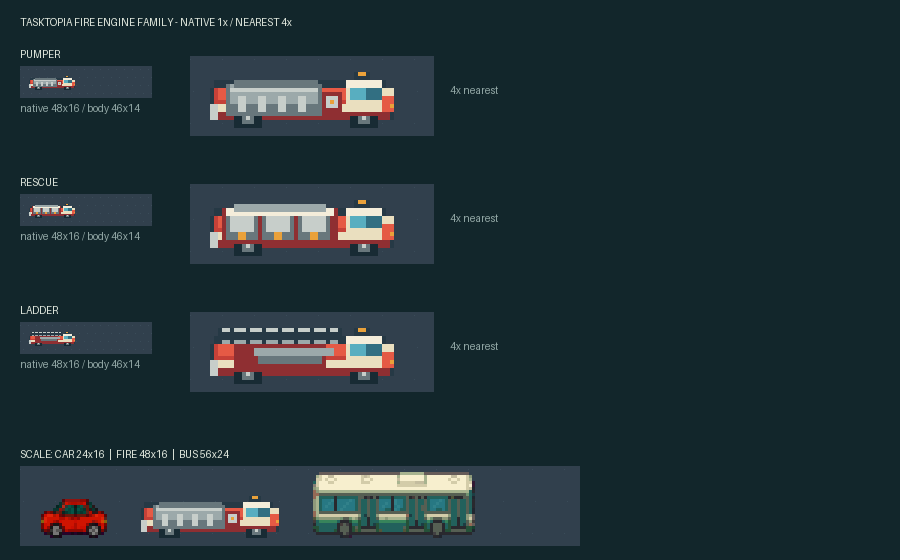
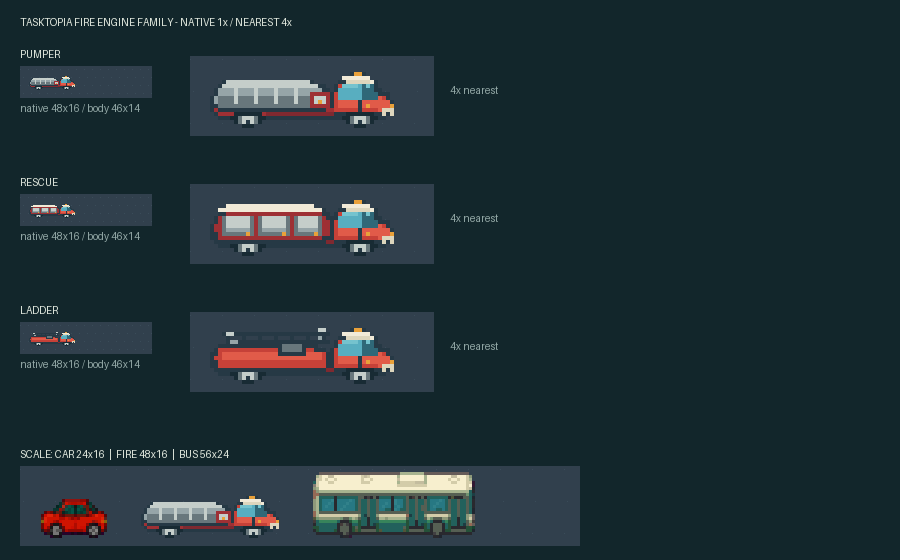
fix: align fire engines with vehicle projection

diff --git a/tests/pixel-city-assets.test.ts b/tests/pixel-city-assets.test.ts
@@ -292,7 +292,7 @@ describe("Pixel City active asset contract", () => {
         occupiedSize: [46, 14],
         footprintCells: [6, 2],
         artSource: "HAND_AUTHORED_NATIVE",
-        sourceSheet: "hand-authored/ambient/fire-engines-v4.png",
+        sourceSheet: "hand-authored/ambient/fire-engines-v5.png",
       });
     }
     for (const prefix of ["incident-flame", "incident-smoke"]) {

diff --git a/scripts/draw-native-fire-engines.py b/scripts/draw-native-fire-engines.py
@@ -6,19 +6,21 @@ from pathlib import Path
 from PIL import Image, ImageDraw
 
 
-OUT = Path("assets/pixel-city-pack/reference/hand-authored/ambient/fire-engines-v4.png")
+OUT = Path("assets/pixel-city-pack/reference/hand-authored/ambient/fire-engines-v5.png")
 TRANSPARENT = (0, 0, 0, 0)
 OUTLINE = "#263945"
 TIRE = "#182b34"
-RED_DARK = "#8f2f32"
+RED_SHADOW = "#7f2930"
+RED_DARK = "#9e3034"
 RED = "#c64138"
-RED_LIGHT = "#e55a45"
-CREAM = "#eadfbf"
-CREAM_LIGHT = "#f4edda"
+RED_LIGHT = "#e15b49"
+CREAM = "#ddd6bd"
+CREAM_LIGHT = "#f1ead7"
 GLASS = "#58aec0"
-GLASS_DARK = "#326f82"
-METAL = "#9ca9aa"
-METAL_LIGHT = "#c7ceca"
+GLASS_LIGHT = "#75c3ce"
+GLASS_DARK = "#2f6878"
+METAL = "#96a5a8"
+METAL_LIGHT = "#c5ceca"
 METAL_DARK = "#68777c"
 AMBER = "#e9a13a"
 
@@ -27,71 +29,136 @@ def rect(draw: ImageDraw.ImageDraw, box: tuple[int, int, int, int], color: str) 
     draw.rectangle(box, fill=color)
 
 
-def common_engine(draw: ImageDraw.ImageDraw, offset: int) -> None:
-    # Two current 24×16 passenger-car lengths, but lower and shorter than the
-    # 56×24 bus. Opaque bounds are exactly 46×14 inside the 48×16 canvas.
-    rect(draw, (offset + 2, 3, offset + 44, 4), OUTLINE)
-    rect(draw, (offset + 1, 5, offset + 46, 12), OUTLINE)
-    rect(draw, (offset + 2, 5, offset + 35, 11), RED)
-    rect(draw, (offset + 3, 5, offset + 34, 7), RED_LIGHT)
-    rect(draw, (offset + 2, 9, offset + 45, 10), CREAM)
-    rect(draw, (offset + 2, 11, offset + 45, 12), RED_DARK)
-    # The east-facing cab uses the same shallow roof, windscreen and near-side
-    # body planes as the current passenger-car family.
-    rect(draw, (offset + 35, 3, offset + 43, 4), CREAM_LIGHT)
-    rect(draw, (offset + 35, 5, offset + 46, 10), CREAM)
-    rect(draw, (offset + 36, 5, offset + 39, 7), GLASS)
-    rect(draw, (offset + 40, 5, offset + 43, 7), GLASS_DARK)
-    rect(draw, (offset + 44, 7, offset + 46, 10), RED_LIGHT)
-    draw.point((offset + 46, 9), fill=AMBER)
-    # Two explicit wheels share the sedan baseline and remain inside one lane.
-    for center in (10, 39):
-        rect(draw, (offset + center - 3, 12, offset + center + 3, 14), TIRE)
-        rect(draw, (offset + center - 1, 12, offset + center + 1, 13), METAL_DARK)
-        draw.point((offset + center, 12), fill=METAL_LIGHT)
-    # Roof beacon and rear bumper.
-    rect(draw, (offset + 37, 1, offset + 40, 2), OUTLINE)
-    rect(draw, (offset + 38, 1, offset + 39, 1), AMBER)
-    rect(draw, (offset + 1, 9, offset + 2, 12), METAL_LIGHT)
+def poly(draw: ImageDraw.ImageDraw, offset: int, points: list[tuple[int, int]], color: str) -> None:
+    draw.polygon([(offset + x, y) for x, y in points], fill=color)
+
+
+def draw_wheel(draw: ImageDraw.ImageDraw, offset: int, center: int) -> None:
+    # Four authored rows form a rounded tyre. The 3 px ground contact prevents
+    # the old square caster look while keeping one hard-pixel component.
+    poly(draw, offset, [
+        (center - 3, 12), (center + 3, 12),
+        (center + 4, 13), (center + 3, 14),
+        (center + 1, 15), (center - 1, 15),
+        (center - 3, 14), (center - 4, 13),
+    ], TIRE)
+    rect(draw, (offset + center - 2, 13, offset + center + 2, 14), METAL_DARK)
+    rect(draw, (offset + center - 1, 13, offset + center + 1, 14), METAL_LIGHT)
+    draw.point((offset + center, 14), fill=OUTLINE)
+
+
+def common_chassis_and_cab(draw: ImageDraw.ImageDraw, offset: int) -> None:
+    # Thin chassis and near-side body plane; only two rows span most of the
+    # vehicle, unlike the former rectangular block.
+    poly(draw, offset, [
+        (1, 9), (3, 8), (31, 8), (33, 9), (46, 9),
+        (46, 12), (44, 13), (42, 13), (41, 12),
+        (35, 12), (34, 13), (14, 13), (13, 12),
+        (7, 12), (6, 13), (3, 13), (1, 11),
+    ], OUTLINE)
+    poly(draw, offset, [
+        (2, 9), (31, 9), (33, 10), (45, 10),
+        (45, 11), (43, 12), (3, 12), (2, 11),
+    ], RED_DARK)
+    rect(draw, (offset + 3, 9, offset + 43, 9), CREAM)
+    rect(draw, (offset + 15, 12, offset + 33, 12), RED_SHADOW)
+
+    # East-facing cab: a stepped roof, two windows, sloped windscreen and hood
+    # expose the same shallow frontal-top camera as the passenger-car family.
+    poly(draw, offset, [
+        (31, 7), (32, 5), (34, 3), (40, 3), (42, 4),
+        (43, 6), (45, 7), (46, 9), (46, 11), (44, 12),
+        (32, 12), (31, 10),
+    ], OUTLINE)
+    poly(draw, offset, [
+        (32, 7), (33, 5), (35, 4), (39, 4), (41, 5),
+        (42, 7), (44, 8), (45, 9), (45, 11), (43, 11),
+        (32, 11),
+    ], RED)
+    # Roof/top plane and upper-left highlight.
+    poly(draw, offset, [(34, 3), (40, 3), (41, 4), (35, 4)], CREAM_LIGHT)
+    rect(draw, (offset + 35, 4, offset + 40, 4), CREAM)
+    # Near-side window and the independently sloped front windscreen.
+    poly(draw, offset, [(34, 5), (38, 5), (38, 8), (33, 8), (33, 6)], GLASS)
+    rect(draw, (offset + 34, 5, offset + 37, 5), GLASS_LIGHT)
+    poly(draw, offset, [(39, 5), (41, 5), (42, 7), (42, 8), (39, 8)], GLASS_DARK)
+    draw.point((offset + 40, 5), fill=GLASS_LIGHT)
+    rect(draw, (offset + 33, 9, offset + 42, 10), RED_LIGHT)
+    rect(draw, (offset + 38, 9, offset + 38, 11), OUTLINE)
+    draw.point((offset + 40, 10), fill=AMBER)
+    # Hood/front face taper rather than a vertical rectangular cab end.
+    poly(draw, offset, [(43, 8), (45, 9), (45, 11), (43, 11)], RED_LIGHT)
+    rect(draw, (offset + 44, 11, offset + 46, 12), CREAM)
+    draw.point((offset + 46, 10), fill=AMBER)
+    draw.point((offset + 45, 12), fill=OUTLINE)
+
+    # Low beacon belongs to the cab roof and establishes the 14 px envelope.
+    rect(draw, (offset + 36, 2, offset + 39, 2), OUTLINE)
+    rect(draw, (offset + 37, 2, offset + 38, 2), AMBER)
+    draw_wheel(draw, offset, 10)
+    draw_wheel(draw, offset, 38)
 
 
 def draw_pumper(draw: ImageDraw.ImageDraw, offset: int) -> None:
-    common_engine(draw, offset)
-    # Auto-pumper: wide ribbed water tank, side pump panel and roof hose tray.
-    rect(draw, (offset + 5, 4, offset + 28, 11), METAL_DARK)
-    rect(draw, (offset + 6, 4, offset + 27, 8), METAL)
-    rect(draw, (offset + 6, 5, offset + 27, 5), METAL_LIGHT)
-    for x in (8, 13, 18, 23):
-        rect(draw, (offset + x, 7, offset + x + 1, 10), METAL_LIGHT)
-    rect(draw, (offset + 29, 6, offset + 33, 10), RED_DARK)
-    rect(draw, (offset + 30, 7, offset + 32, 9), METAL_LIGHT)
-    draw.point((offset + 31, 8), fill=AMBER)
-    rect(draw, (offset + 7, 3, offset + 27, 4), METAL_DARK)
+    common_chassis_and_cab(draw, offset)
+    # Rounded tank: narrow top plane, curved end pixels, ribbed near side and a
+    # separate pump panel. It reads as volume, not as a warehouse rectangle.
+    poly(draw, offset, [
+        (1, 8), (2, 6), (4, 4), (26, 4), (29, 5),
+        (31, 7), (31, 10), (29, 11), (3, 11), (1, 10),
+    ], OUTLINE)
+    poly(draw, offset, [
+        (3, 6), (5, 5), (25, 5), (28, 6), (29, 7),
+        (29, 10), (3, 10), (2, 9),
+    ], METAL)
+    poly(draw, offset, [(5, 4), (25, 4), (27, 5), (4, 5)], METAL_LIGHT)
+    rect(draw, (offset + 3, 8, offset + 29, 10), METAL_DARK)
+    for x in (7, 12, 17, 22):
+        rect(draw, (offset + x, 6, offset + x, 9), METAL_LIGHT)
+    rect(draw, (offset + 26, 7, offset + 30, 10), RED_DARK)
+    rect(draw, (offset + 27, 8, offset + 29, 9), METAL_LIGHT)
+    draw.point((offset + 28, 9), fill=AMBER)
 
 
 def draw_rescue(draw: ImageDraw.ImageDraw, offset: int) -> None:
-    common_engine(draw, offset)
-    # Rescue unit: high enclosed equipment body with three unmistakable bays.
-    rect(draw, (offset + 4, 3, offset + 32, 11), RED_DARK)
-    rect(draw, (offset + 5, 3, offset + 31, 4), CREAM_LIGHT)
-    for left in (5, 14, 23):
-        rect(draw, (offset + left, 5, offset + left + 7, 10), METAL_DARK)
-        rect(draw, (offset + left + 1, 5, offset + left + 6, 8), METAL_LIGHT)
-        rect(draw, (offset + left + 3, 9, offset + left + 4, 10), AMBER)
-    rect(draw, (offset + 7, 2, offset + 29, 3), METAL)
+    common_chassis_and_cab(draw, offset)
+    # A chamfered high rescue body with a visible pale roof plane and three
+    # roll-up equipment bays. Corners step inward instead of forming a box.
+    poly(draw, offset, [
+        (1, 8), (2, 6), (5, 3), (26, 3), (29, 4),
+        (31, 6), (31, 11), (29, 12), (3, 12), (1, 10),
+    ], OUTLINE)
+    poly(draw, offset, [(5, 3), (26, 3), (28, 4), (3, 4)], CREAM_LIGHT)
+    poly(draw, offset, [
+        (3, 6), (5, 5), (28, 5), (30, 7), (30, 10),
+        (28, 11), (3, 11), (2, 9),
+    ], RED_DARK)
+    for left, width in ((4, 7), (13, 7), (22, 6)):
+        rect(draw, (offset + left, 6, offset + left + width, 10), METAL_DARK)
+        rect(draw, (offset + left + 1, 6, offset + left + width - 1, 8), METAL_LIGHT)
+        rect(draw, (offset + left + 1, 9, offset + left + width - 1, 9), METAL)
+        draw.point((offset + left + width - 1, 10), fill=AMBER)
 
 
 def draw_ladder(draw: ImageDraw.ImageDraw, offset: int) -> None:
-    common_engine(draw, offset)
-    # Ladder truck: open turntable and a long ladder reaching almost the cab.
-    rect(draw, (offset + 3, 1, offset + 33, 4), OUTLINE)
-    rect(draw, (offset + 4, 1, offset + 32, 1), METAL_LIGHT)
-    rect(draw, (offset + 4, 4, offset + 32, 4), METAL)
-    for x in range(6, 33, 4):
-        rect(draw, (offset + x, 1, offset + x, 4), OUTLINE)
-    rect(draw, (offset + 7, 5, offset + 29, 10), RED_DARK)
-    rect(draw, (offset + 12, 6, offset + 31, 7), METAL)
-    rect(draw, (offset + 13, 8, offset + 28, 9), METAL_DARK)
+    common_chassis_and_cab(draw, offset)
+    # Lower open bed and a slightly rising authored ladder. The turntable joins
+    # roof equipment to the chassis so the whole truck remains one silhouette.
+    poly(draw, offset, [
+        (1, 8), (3, 6), (27, 6), (31, 8), (31, 11),
+        (29, 12), (3, 12), (1, 10),
+    ], OUTLINE)
+    poly(draw, offset, [(3, 7), (26, 7), (29, 8), (29, 11), (3, 11), (2, 9)], RED)
+    rect(draw, (offset + 4, 8, offset + 28, 9), RED_LIGHT)
+    rect(draw, (offset + 18, 5, offset + 24, 8), OUTLINE)
+    rect(draw, (offset + 19, 5, offset + 23, 7), METAL_DARK)
+    # Ladder rails rise by one pixel toward the cab, matching the near-top view.
+    poly(draw, offset, [(4, 3), (29, 2), (30, 3), (5, 4)], OUTLINE)
+    poly(draw, offset, [(5, 3), (28, 2), (29, 2), (6, 3)], METAL_LIGHT)
+    poly(draw, offset, [(5, 5), (29, 4), (30, 5), (6, 6)], OUTLINE)
+    poly(draw, offset, [(6, 5), (28, 4), (29, 4), (7, 5)], METAL)
+    for x in range(8, 29, 4):
+        draw.line((offset + x, 3, offset + x + 1, 5), fill=OUTLINE)
 
 
 def main() -> None:

diff --git a/scripts/verify-vehicle-proportions.py b/scripts/verify-vehicle-proportions.py
@@ -49,6 +49,44 @@ def overlay(left: Image.Image, right: Image.Image) -> Image.Image:
     return result
 
 
+def opaque_runs(alpha: Image.Image, y: int) -> list[int]:
+    """Return contiguous opaque run widths for one silhouette row."""
+    widths: list[int] = []
+    start: int | None = None
+    for x in range(alpha.width + 1):
+        opaque = x < alpha.width and alpha.getpixel((x, y)) > 0
+        if opaque and start is None:
+            start = x
+        elif not opaque and start is not None:
+            widths.append(x - start)
+            start = None
+    return widths
+
+
+def assert_fire_engine_projection(key: str, image: Image.Image) -> None:
+    """Reject flat box trucks that do not share the passenger-car camera."""
+    alpha = image.getchannel("A")
+    bounds = alpha.getbbox()
+    assert bounds is not None
+    left, top, right, bottom = bounds
+    opaque_pixels = sum(value > 0 for value in alpha.getdata())
+    fill_ratio = opaque_pixels / ((right - left) * (bottom - top))
+
+    rows: list[tuple[int, int, int]] = []
+    for y in range(top, bottom):
+        xs = [x for x in range(left, right) if alpha.getpixel((x, y))]
+        rows.append((min(xs), max(xs), len(xs)))
+    row_widths = {width for _, _, width in rows}
+    front_edges = {row_right for _, row_right, _ in rows}
+    full_width_rows = sum(width == right - left for _, _, width in rows)
+
+    assert fill_ratio <= 0.755, f"{key}: boxy silhouette fill ratio {fill_ratio:.3f}"
+    assert len(row_widths) >= 6, f"{key}: flat silhouette has only {len(row_widths)} row widths"
+    assert len(front_edges) >= 5, f"{key}: cab/front lacks a stepped east-facing profile"
+    assert full_width_rows <= 3, f"{key}: {full_width_rows} full rectangular body rows"
+    assert opaque_runs(alpha, bottom - 1) == [3, 3], f"{key}: wheels lack rounded 3 px ground contacts"
+
+
 def main() -> None:
     parser = argparse.ArgumentParser()
     parser.add_argument("--proof", type=Path)
@@ -89,7 +127,8 @@ def main() -> None:
         assert set(image.getchannel("A").getdata()) <= {0, 255}, f"{key}: soft alpha"
         assert component_count(image) == 1, f"{key}: disconnected body"
         assert entry["footprintCells"] == [6, 2], f"{key}: footprint {entry['footprintCells']}"
-        assert entry.get("sourceSheet") == "hand-authored/ambient/fire-engines-v4.png", f"{key}: stale source"
+        assert entry.get("sourceSheet") == "hand-authored/ambient/fire-engines-v5.png", f"{key}: stale source"
+        assert_fire_engine_projection(key, image)
         fire_engines[key] = image
     for left_key, right_key in itertools.combinations(fire_engines, 2):
         left = fire_engines[left_key]

diff --git a/docs/WORLD-GENERATION.md b/docs/WORLD-GENERATION.md
@@ -148,7 +148,7 @@ PixiJS-приложение живёт всё время выбранной ст
 
 ### Инциденты задач
 
-Связанные дефекты и активные хотфиксы отображаются отдельным incident overlay над зданием. Плотность дыма зависит от общего числа активных дефектов, а не от прогресса родительской задачи: 1–2 дефекта дают один шлейф, 3–4 — два, 5 — три плотных шлейфа. С 6 активных дефектов появляется огонь. Пожарная машина использует canvas `48×16` и непрозрачный корпус `46×14`: это две легковые `24×16` по длине, но меньше автобуса `56×24`. Три source-силуэта отдельно изображают автоцистерну, спасательную машину и автолестницу. Объёмная вода начинается 3-px потоком у сопла и сужается до 2 px у фасада. Цикл каждой цели длится `1600 ms`: первые `320 ms` расчёт плавно переводит струю с предыдущего очага, затем удерживает её на текущем и последовательно обходит остальные очаги. Блики движутся по стабильной дуге, а ударные брызги меняют фазу в текущей точке контакта. Глобальный лимит оставляет одновременно не больше трёх полных пожарных расчётов, остальные инциденты сохраняют компактную крышную сигнализацию. Горящие здания всегда получают расчёт раньше зданий только с дымом; внутри одного уровня приоритет имеет более плотный дым. Активный `HOTFIX` остаётся немедленным аварийным случаем с огнём, дымом и тушением. После исправления последнего дефекта или завершения хотфикса overlay исчезает.
+Связанные дефекты и активные хотфиксы отображаются отдельным incident overlay над зданием. Плотность дыма зависит от общего числа активных дефектов, а не от прогресса родительской задачи: 1–2 дефекта дают один шлейф, 3–4 — два, 5 — три плотных шлейфа. С 6 активных дефектов появляется огонь. Пожарная машина использует canvas `48×16` и непрозрачный корпус `46×14`: это две легковые `24×16` по длине, но меньше автобуса `56×24`. Её east-facing силуэт повторяет near-top проекцию легковых: ступенчатая крыша кабины, боковое и наклонное лобовое стекло, сужающийся капот, видимая верхняя плоскость оборудования, ближний борт и округлые колёса на общей baseline. Три source-силуэта отдельно изображают автоцистерну, спасательную машину и автолестницу. Объёмная вода начинается 3-px потоком у сопла и сужается до 2 px у фасада. Цикл каждой цели длится `1600 ms`: первые `320 ms` расчёт плавно переводит струю с предыдущего очага, затем удерживает её на текущем и последовательно обходит остальные очаги. Блики движутся по стабильной дуге, а ударные брызги меняют фазу в текущей точке контакта. Глобальный лимит оставляет одновременно не больше трёх полных пожарных расчётов, остальные инциденты сохраняют компактную крышную сигнализацию. Горящие здания всегда получают расчёт раньше зданий только с дымом; внутри одного уровня приоритет имеет более плотный дым. Активный `HOTFIX` остаётся немедленным аварийным случаем с огнём, дымом и тушением. После исправления последнего дефекта или завершения хотфикса overlay исчезает.
 
 Эффект существует только у задач видимых detail-чанков. Он не записывается в геометрию, не участвует в коллизиях или маршрутах и ограничен одним заранее собранным Pixi-контейнером на здание. На один инцидент создаётся не больше трёх пар кадров дыма независимо от фактического числа дефектов. В animation frame меняются только `visible`, `alpha` и уже существующие спрайты; новые `Graphics` не создаются. Overview не получает сводку дефектов и не загружает incident PNG. При `prefers-reduced-motion` сохраняется статичная, читаемая первая фаза эффекта.
 

diff --git a/assets/pixel-city-pack/docs/GENERATION-SPEC.md b/assets/pixel-city-pack/docs/GENERATION-SPEC.md
@@ -110,7 +110,7 @@
 - Легковая машина обязана иметь согласованные `16×24` и `24×16` проекции с непрозрачным кузовом ровно `13×22` и `22×13`; силуэт, окна, колёса и палитра совпадают. Горизонтальный вид показывает неглубокую крышу и ближний борт, а не план сверху. Все 24 исходных вида принадлежат одному проверенному листу с зафиксированным SHA-256, имеют один связный непрозрачный компонент и не могут молча обрезаться до крупнейшего фрагмента.
 - Автобус имеет отдельные authored-проекции `56×24` (восток), `24×56` (север/юг); запад зеркалит только утверждённый восточный вид.
 - Runtime публикует не менее восьми самостоятельных моделей транспорта. Горизонтальная и вертикальная проекции рисуются независимо; перекраска и механический поворот не считаются вариантом.
-- Стоящая пожарная техника использует east-facing canvas `48×16`, связный непрозрачный кузов `46×14` и visual footprint `6×2`: две легковые машины `24×16` по длине, но меньше автобуса `56×24`. Автоцистерна, спасательная машина и автолестница обязаны различаться баком, шкафами или лестничным оборудованием, а не только палитрой.
+- Стоящая пожарная техника использует east-facing canvas `48×16`, связный непрозрачный кузов `46×14` и visual footprint `6×2`: две легковые машины `24×16` по длине, но меньше автобуса `56×24`. Она повторяет near-top frontal-side проекцию легковых: ступенчатая крыша кабины, самостоятельные боковое и наклонное лобовое стекло, сужающийся капот, неглубокая верхняя плоскость оборудования, ближний борт и два округлых колеса на общей baseline. Сплошной прямоугольный elevation запрещён. Автоцистерна, спасательная машина и автолестница обязаны различаться баком, шкафами или лестничным оборудованием, а не только палитрой.
 - Пешеходы имеют четыре направления и по три authored-кадра шага (контакт, перенос, противоположный контакт). Sprite использует canvas `16×24`, непрозрачное тело высотой `18 px` в общем family-scale, единую линию ступней и логическую клетку `1×1`; восточные кадры разрешено зеркалить для запада, север/юг рисуются отдельно. Runtime проигрывает полный цикл `контакт → перенос → противоположный контакт → перенос`, без скачка между крайними позами. Gate сравнивает A/C наложением: у контактных поз должны отличаться обе нижние стороны силуэта, иначе одна и та же ведущая нога считается блокирующей ошибкой.
 - Статичные жители используют тот же canvas `16×24` и рост `16–18 px`; предмет в руках меняет ширину, но не масштаб головы и тела. Рыбак в согнутой позе занимает `8–10×12–14 px` при том же масштабе частей тела.
 - Велосипедисты и самокатчики не уменьшаются в runtime. Горизонтальная проекция использует прозрачный canvas `24×24`, вертикальные — `16×24`; видимый объединённый силуэт человека и транспорта занимает соответственно `12–18×13–18 px` и `6–8×16–18 px`. Canvas не является footprint: горизонтальная occupancy остаётся `2×1`, вертикальная — `1×1`.

diff --git a/.agents/skills/tasktopia-pixel-city-art/references/visual-grammar.md b/.agents/skills/tasktopia-pixel-city-art/references/visual-grammar.md
@@ -97,7 +97,7 @@ Review on transparent checkerboard, dark pack background, meadow, stone, and asp
 - A walking resident canvas is `16×24 px`; the opaque figure uses one 18-pixel-high family scale, hard alpha, one anchored baseline and three visibly distinct authored poses per direction. The passing pose may narrow naturally and must never be independently enlarged to fill the envelope. In the A/C overlay, changed lower-body pixels must appear on both sides of the body axis, proving that opposite feet lead; a palette-only or same-leg change is blocking. West is a pixel-exact mirror of east; north and south remain separately authored. Runtime returns through the passing pose (`A→B→C→B`) so opposite contacts never snap directly into each other. Dialogue/UI is a separate foreground layer and is never baked into the sprite.
 - A cyclist or scooter rider uses a `3×3` authored atlas: horizontal, north and south rows; contact, passing and opposite-contact columns. Horizontal runtime cells use a transparent `24×24 px` canvas and `12–18×13–18 px` subject; north/south use `16×24 px` and `6–8×16–18 px`. This canvas preserves the canonical adult head/body scale and must render at `1.0`; it does not enlarge logical occupancy beyond `2×1` horizontally or `1×1` vertically. Horizontal west is the exact east mirror. Advance the frame from route progress plus a persistent step counter, never from camera movement, zoom or chunk mount. The shared lower-centre contact anchor stays in its sidewalk cell in all nine frames.
 - Every walking animal uses a `3×4` authored atlas: north, east, south and west rows; three gait phases per row. Do not fake motion by vertical jumping, whole-sprite rotation or reusing a static pose. Small species may use an `8×8` frontal canvas and `16×8` side canvas; tall species use `8×16` frontal and `16×16` side canvases, while their logical occupied cell remains one centred terrain cell.
-- Emergency road vehicles are measured against the normal car family. A fire engine is `48×16 px` with a `46×14 px` opaque body — exactly two `24×16 px` passenger-car canvases long, while remaining shorter and lower than the `56×24 px` city bus. It keeps the same horizontal frontal-top roof visibility and road baseline as cars; ladders and roof equipment stay within the authored vehicle silhouette. Pumper, rescue and ladder variants must differ structurally rather than by palette alone.
+- Emergency road vehicles are measured against the normal car family. A fire engine is `48×16 px` with a `46×14 px` opaque body — exactly two `24×16 px` passenger-car canvases long, while remaining shorter and lower than the `56×24 px` city bus. It keeps the same near-top frontal-side camera and road baseline as cars: stepped cab roof, separate side glass and sloped windscreen, tapered hood, shallow equipment top plane, darker near-side body and two rounded wheels. A rectangular side elevation or roof-only plan is blocking. Pumper, rescue and ladder variants must differ structurally rather than by palette alone; ladders and roof equipment stay inside the authored silhouette.
 - Standard trees use a `16×32 px` canvas, `1×1` gameplay footprint and
   anchor `[8,32]`. Define the exact planting cell as the lower-centre
   `8×8 px` rectangle `x=4..11`, `y=24..31`. The trunk/root must touch row

diff --git a/.agents/skills/tasktopia-pixel-city-art/references/ambient-asset-acceptance.md b/.agents/skills/tasktopia-pixel-city-art/references/ambient-asset-acceptance.md
@@ -38,7 +38,7 @@ Reject the source before catalog registration when any item applies:
 - Distinct models must differ structurally: compact, sedan, estate, taxi, van, pickup, electric hatch, or classic car. A color swap is not a model.
 - Every model must have a unique full RGBA drawing and a visibly different source-level body/roof/cargo structure. The reviewed contact sheet is the silhouette gate: tiny runtime cars may share the same safe lane envelope, so an alpha-bounds hash alone is not proof of diversity.
 - City buses use the same three-view contract but occupy `56x24 px` horizontally and `24x56 px` vertically (`7x3` or `3x7` cells). Their opaque subject must occupy at least `52x21 px` horizontally and `21x52 px` north/south. The long roof, window rhythm, front/rear lighting and three-cell width must remain readable at native `1x`. A short vehicle padded inside the large canvas is blocking. Buses run only on canonical seven-cell collector/arterial/highway roads.
-- Parked fire engines use a `48x16 px` east-facing canvas with an exact `46x14 px` connected opaque body and a `6x2` visual footprint. This is two current passenger-car canvases long and remains below the `56x24 px` bus envelope. Pumper, rescue and ladder variants require different tank/bay/ladder silhouettes; palette-only variants, disconnected wheels/equipment or a stale smaller source are blocking.
+- Parked fire engines use a `48x16 px` east-facing canvas with an exact `46x14 px` connected opaque body and a `6x2` visual footprint. This is two current passenger-car canvases long and remains below the `56x24 px` bus envelope. The accepted side view must share the passenger-car camera: stepped cab roof, readable side window plus sloped front windscreen, tapered hood, shallow top plane, darker near-side plane and two rounded wheels on the same baseline. The silhouette may fill at most 75.5% of its occupied rectangle, needs at least six distinct opaque row widths and five front-edge steps, may contain at most three full-width rows, and ends in two separate 3 px wheel contacts. Pumper, rescue and ladder variants require different tank/bay/ladder silhouettes; a rectangular elevation, palette-only variants, disconnected wheels/equipment or a stale source are blocking.
 
 ## Transit-stop gate
 

diff --git a/CHANGELOG.md b/CHANGELOG.md
@@ -2,6 +2,12 @@
 
 ## Unreleased
 
+## 1.19.7 — 2026-08-23
+
+- Пожарная техника перерисована в той же near-top frontal-side проекции, что и восемь моделей легковых машин: ступенчатая крыша кабины, отдельные боковое и наклонное лобовое стекло, сужающийся капот, видимая верхняя плоскость оборудования, ближний борт и округлые колёса на общей дорожной базе. Прежние прямоугольные силуэты удалены.
+- Автоцистерна получила округлый ребристый бак и насосный отсек, спасательная машина — скошенный высокий кузов с тремя шкафами, автолестница — низкую открытую платформу, поворотный узел и наклонные направляющие.
+- Vehicle gate теперь измеряет заполненность силуэта, разнообразие ширины строк, ступени передней кромки, число сплошных прямоугольных рядов и трёхпиксельные контакты округлых колёс; возврат к плоскому коробчатому кузову блокирует выпуск.
+
 ## 1.19.6 — 2026-08-23
 
 - Три пожарные машины приведены к масштабу текущего транспорта: canvas `48×16`, непрозрачный кузов `46×14`, то есть ровно две легковые `24×16` по длине и меньше автобуса `56×24`. Автоцистерна, спасательная машина и автолестница различаются конструкцией кузова, а не перекраской.

diff --git a/docs/QA.md b/docs/QA.md
@@ -40,7 +40,11 @@
 4. Автобус должен появляться только на семиклеточном collector/arterial/highway и занимать внешнюю travel-полосу, не shoulder и не трёхклеточную median; local `3` клетки автобусов не принимает.
 5. Остановить машину или автобус красным сигналом: кузов должен перейти в стабильную нулевую фазу без bob, rotation и изменения масштаба; после старта четыре фазы повторяются по пройденной дистанции.
 6. Открыть горящее высокое здание: пожарная имеет canvas `48×16`, равна двум
-   легковым по длине, ниже автобуса и стоит целиком справа от фасада. Струя
+   легковым по длине, ниже автобуса и стоит целиком справа от фасада. У кабины
+   видны ступенчатая крыша, боковое и наклонное лобовое стекло, сужающийся
+   капот, верхняя и ближняя боковая плоскости; два колеса округлые и стоят на
+   той же baseline, что колёса легковой. Кузов не выглядит прямоугольной
+   коробкой. Струя
    начинается толстой у сопла, сужается у огня и каждые `1600 ms` переводится
    к следующему очагу; сам перевод занимает `320 ms`, без скачка и разрыва.
 

diff --git a/assets/pixel-city-pack/docs/ASSET-EXPANSION-PLAN.md b/assets/pixel-city-pack/docs/ASSET-EXPANSION-PLAN.md
@@ -48,7 +48,9 @@ chroma, сохранить пропорции, сделать hard alpha и со
 
 Природный набор расширен до 16 заново отрисованных основных видов деревьев, шести кустарников и восьми
 видов животных. Инциденты используют три структурно разные пожарные машины
-`48×16`/`46×14` (автоцистерна, спасательная и автолестница) и четыре кадра огня
+`48×16`/`46×14` (автоцистерна, спасательная и автолестница) в той же near-top
+проекции, что легковые: наклонное лобовое стекло, сужающийся капот, видимая
+верхняя и ближняя боковая плоскости, ступенчатый контур и округлые колёса; и четыре кадра огня
 и дыма. Генератор рельефа выбирает один из восьми глобально устойчивых типов
 гидрологии; формулы используют мировые координаты, поэтому не расходятся на
 границах чанков. Обоснование каталога и правила размещения находятся в
